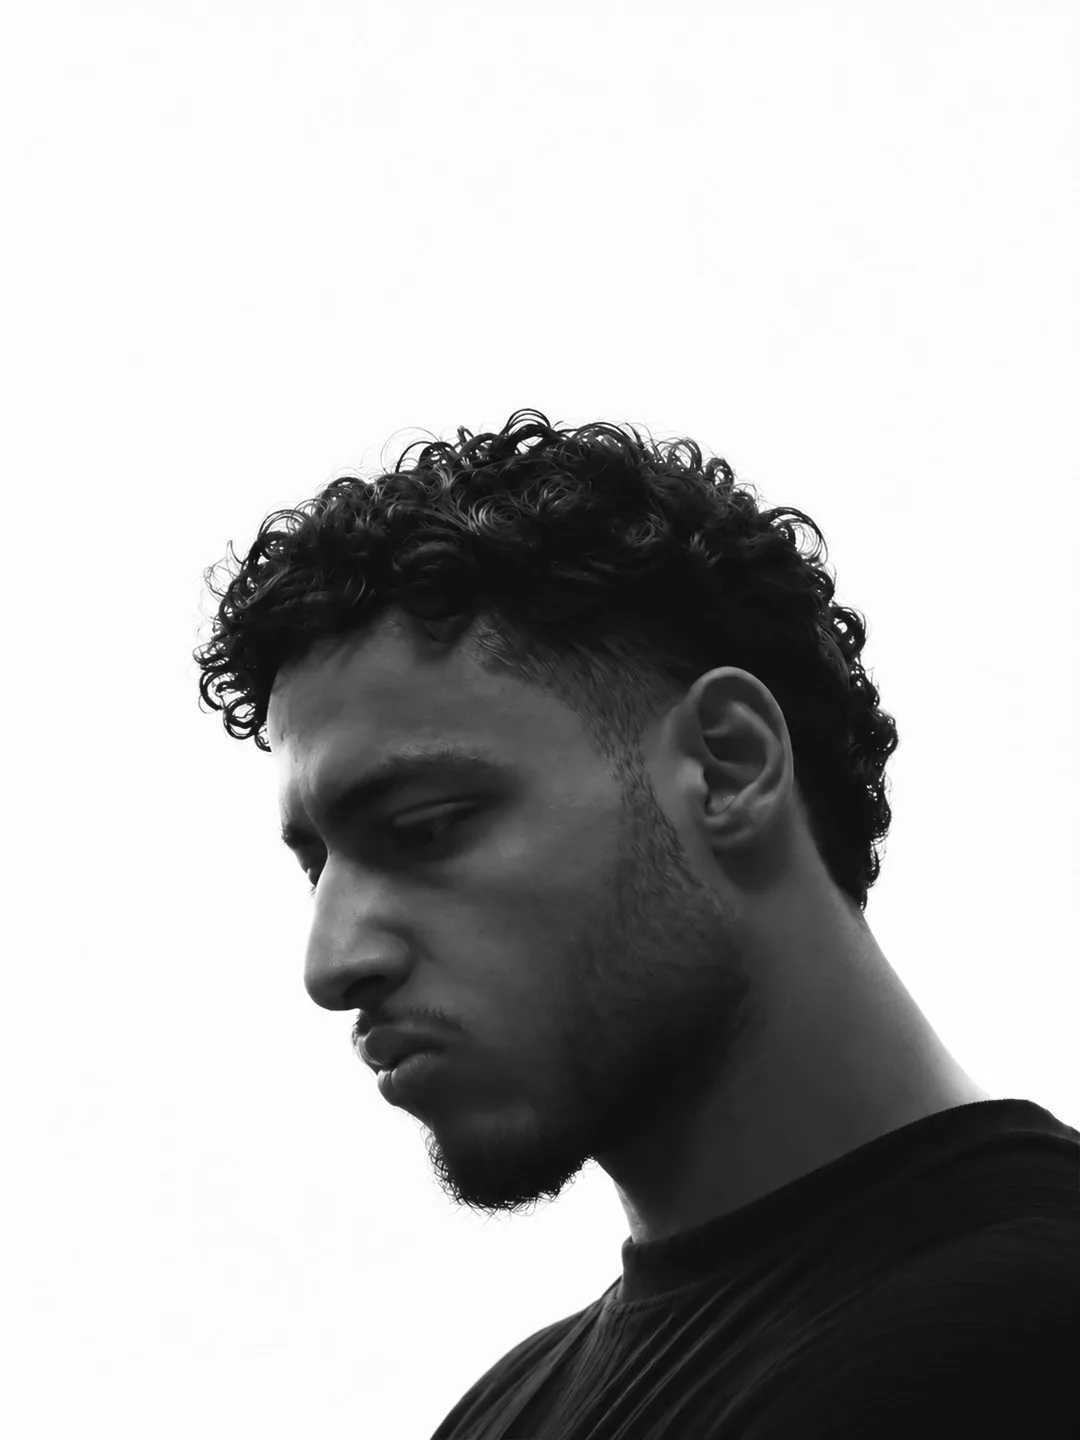
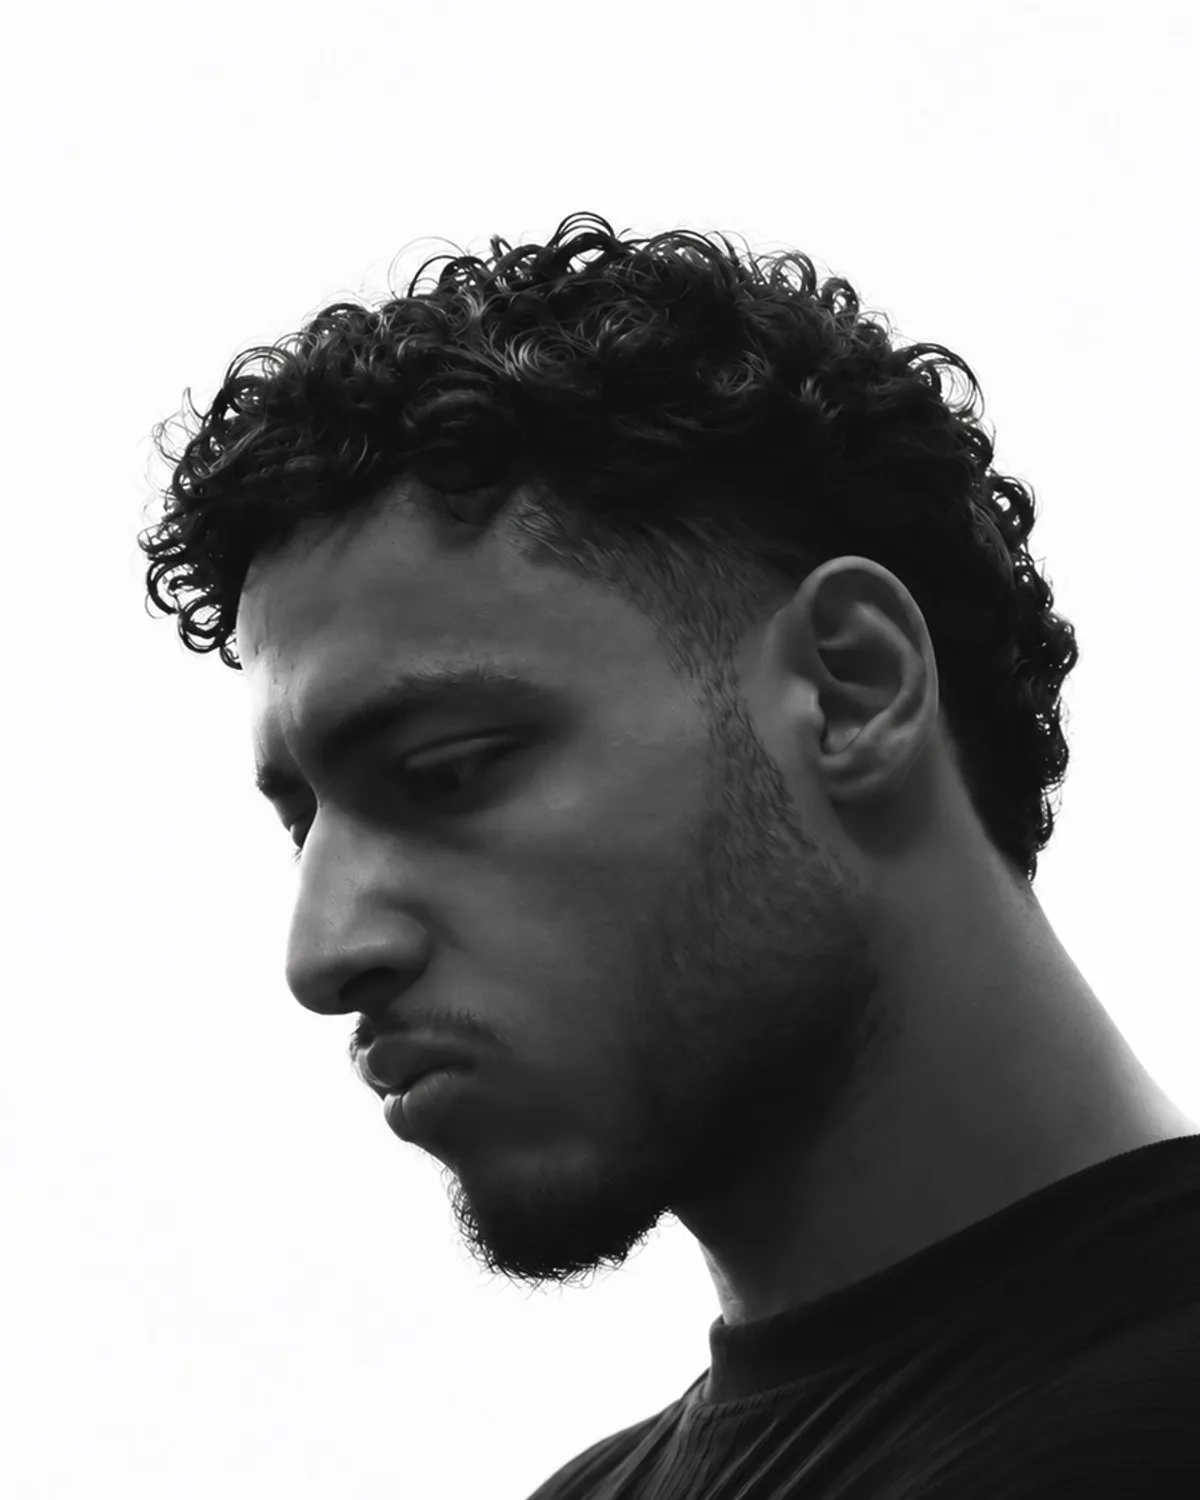
Team: crop portraits to the 4:5 frame, founder photo in colour, visible job titles

Changed region(s): [[0.1222, 0.125, 1.0, 1.0]]

diff --git a/src/pages/Team.tsx b/src/pages/Team.tsx
@@ -52,11 +52,11 @@ const STEPS = [
 ];
 
 /* T2 · portrait: greyscale until hover */
-function Portrait({ photo, alt, ratio, children }: { photo: string; alt: string; ratio: string; children?: React.ReactNode }) {
+function Portrait({ photo, alt, ratio, color = false, children }: { photo: string; alt: string; ratio: string; color?: boolean; children?: React.ReactNode }) {
   return (
     <div className="ph group relative overflow-hidden rounded-[10px]" style={{ aspectRatio: ratio }}>
       {photo ? (
-        <img src={photo} alt={alt} loading="lazy" data-parallax="0.08" className="absolute inset-[-8%] h-[116%] w-[116%] object-cover grayscale transition-[filter,transform] duration-700 group-hover:scale-[1.03] group-hover:grayscale-0" />
+        <img src={photo} alt={alt} loading="lazy" data-parallax="0.08" className={`absolute inset-[-8%] h-[116%] w-[116%] object-cover ${color ? '' : 'grayscale group-hover:grayscale-0'} transition-[filter,transform] duration-700 group-hover:scale-[1.03]`} />
       ) : null}
       {children}
     </div>
@@ -88,7 +88,7 @@ export default function Team() {
           </div>
           <div className="grid items-end gap-6 md:grid-cols-2">
             <motion.div initial={{ opacity: 0, y: 40 }} whileInView={{ opacity: 1, y: 0 }} viewport={inView} transition={{ duration: 0.9, ease: EASE }}>
-              <Portrait photo={FOUNDER.photo} alt={`${FOUNDER.first} ${FOUNDER.last}`} ratio="4/5">
+              <Portrait photo={FOUNDER.photo} alt={`${FOUNDER.first} ${FOUNDER.last}`} ratio="4/5" color>
                 {!FOUNDER.photo && <span className="lab absolute left-6 top-[22px] !text-[11px] !text-gold">{t('Portrait · placeholder', 'صورة · مساحة مؤقتة')}</span>}
               </Portrait>
             </motion.div>
@@ -100,11 +100,13 @@ export default function Team() {
                 style={{ fontSize: 'clamp(52px,7vw,110px)' }}
                 lines={[FOUNDER.first, <>{FOUNDER.last}<span className="text-gold">.</span></>]}
               />
-              <Reveal className="flex flex-wrap gap-6 border-t border-[rgba(244,241,232,.14)] pt-[18px]">
-                <span className="lab !text-gold">{FOUNDER.role}</span>
-                <a href={FOUNDER.linkedin || '#'} className="lab tap !text-cream hover:!text-gold" target={FOUNDER.linkedin ? '_blank' : undefined} rel="noreferrer">
-                  LinkedIn ↗
-                </a>
+              <Reveal className="flex flex-wrap items-baseline justify-between gap-x-6 gap-y-2 border-t border-[rgba(244,241,232,.14)] pt-[18px]">
+                <span className="font-display text-[clamp(22px,2.4vw,34px)] font-bold leading-none tracking-[-0.03em] text-gold">{FOUNDER.role}</span>
+                {FOUNDER.linkedin && (
+                  <a href={FOUNDER.linkedin} className="lab tap !text-cream hover:!text-gold" target="_blank" rel="noreferrer">
+                    LinkedIn ↗
+                  </a>
+                )}
               </Reveal>
               <Reveal as="p" className="copy max-w-[40ch]">
                 {FOUNDER.bio}
@@ -135,8 +137,8 @@ export default function Team() {
                 style={{ fontSize: 'clamp(52px,7vw,110px)' }}
                 lines={[LEAD.first, <>{LEAD.last}<span className="text-gold">.</span></>]}
               />
-              <Reveal className="flex flex-wrap gap-6 border-t border-[rgba(244,241,232,.14)] pt-[18px]">
-                <span className="lab !text-gold">{LEAD.role}</span>
+              <Reveal className="flex flex-wrap items-baseline justify-between gap-x-6 gap-y-2 border-t border-[rgba(244,241,232,.14)] pt-[18px]">
+                <span className="font-display text-[clamp(22px,2.4vw,34px)] font-bold leading-none tracking-[-0.03em] text-gold">{LEAD.role}</span>
                 {LEAD.linkedin && (
                   <a href={LEAD.linkedin} className="lab tap !text-cream hover:!text-gold" target="_blank" rel="noreferrer">
                     LinkedIn ↗
